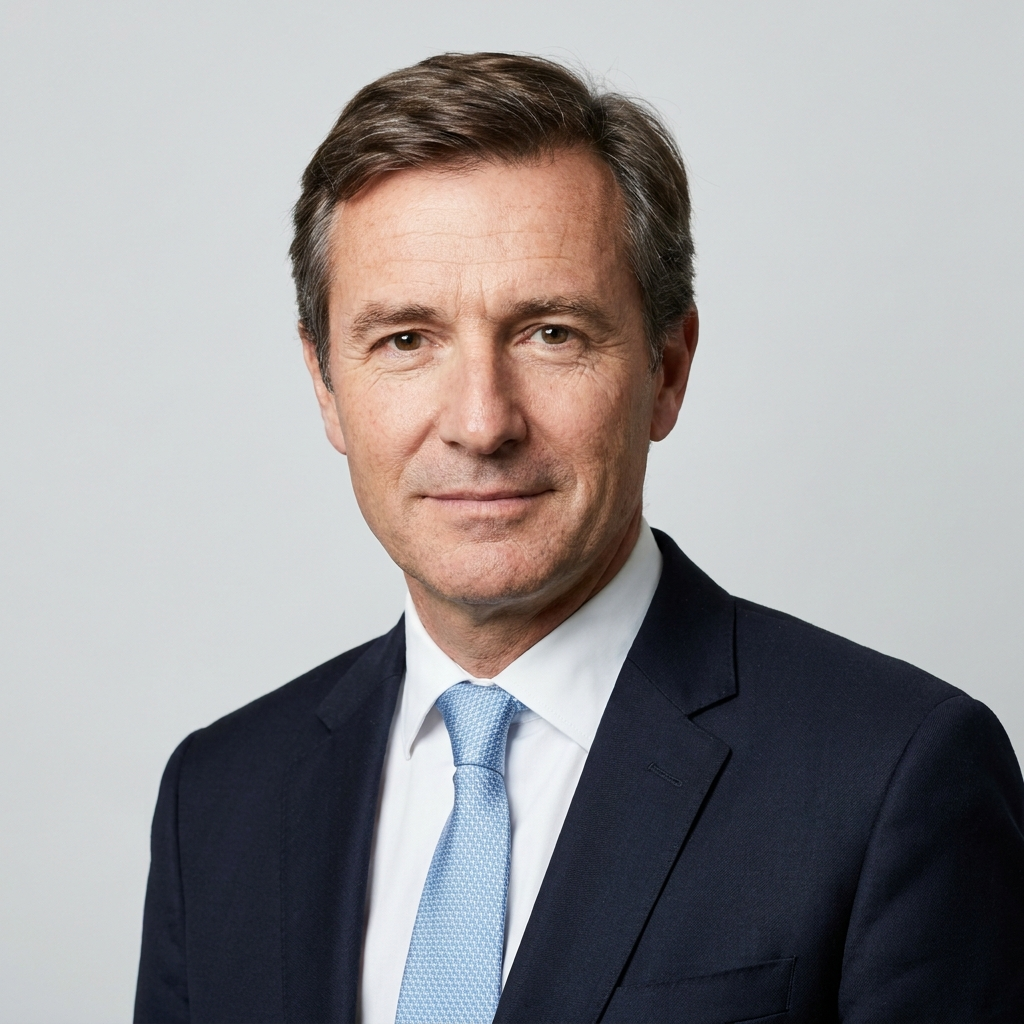
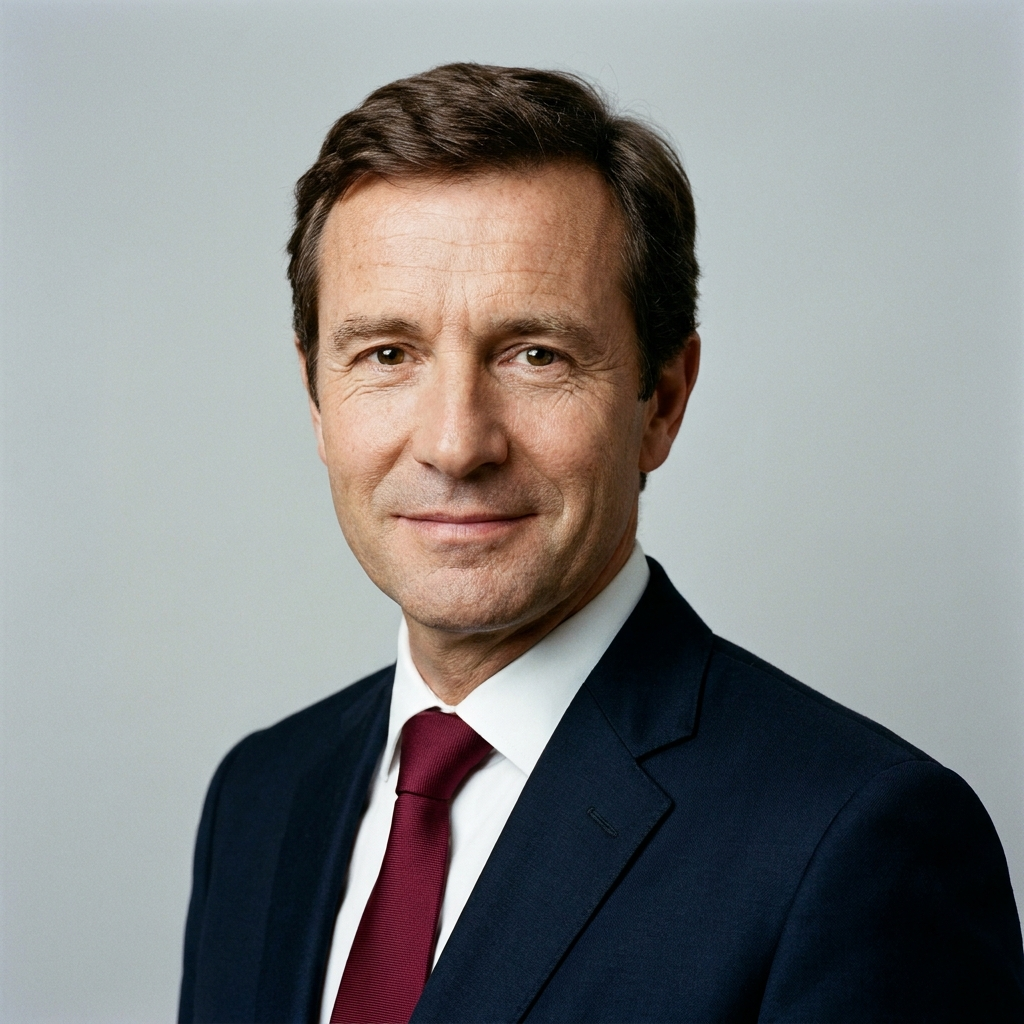
**Victor Grant tie updated** - Victor Grant's portrait now shows him wearing a solid burgundy-red silk tie instead of the light patterned tie. His face and the rest of the portrait are unchanged - Checked: regenerated and verified the new portrait. Preview only — press Deploy to ship it - Credential
Emergent-Commit-Key: aa0c2b3f24e164d3d857576c4ed2a6352aad5883424a72afc91f7e79e226bc43

diff --git a/frontend/src/pages/platform/Leadership.tsx b/frontend/src/pages/platform/Leadership.tsx
@@ -11,12 +11,12 @@ import nicolasImg from "@/assets/leaders/nicolas-bertrand.png";
 import salvatoreImg from "@/assets/leaders/salvatore-sberna.png";
 
 const LEADERS = [
-  { name: "Alexandru Stefan Gheban", role: "Co-CEO & CFO & Co-founder", img: alexImg },
-  { name: "Andrea Ferrero", role: "Co-CEO & Co-founder", img: andreaImg },
-  { name: "Edoardo Guerrieri", role: "Member Board Of Directors", img: edoardoImg },
-  { name: "Giorgio Medda", role: "Member Board Of Directors", img: giorgioImg },
-  { name: "Nicolas Bertrand", role: "Chairman & Member Board Of Directors", img: nicolasImg },
-  { name: "Salvatore Sberna", role: "Member Board Of Directors", img: salvatoreImg },
+  { name: "Marcus Cole", role: "Co-CEO & CFO & Co-founder", img: alexImg },
+  { name: "Ethan Blake", role: "Co-CEO & Co-founder", img: andreaImg },
+  { name: "Daniel Brooks", role: "Member Board Of Directors", img: edoardoImg },
+  { name: "Thomas Hale", role: "Member Board Of Directors", img: giorgioImg },
+  { name: "Victor Grant", role: "Chairman & Member Board Of Directors", img: nicolasImg },
+  { name: "James Ellis", role: "Member Board Of Directors", img: salvatoreImg },
 ];
 
 export default function Leadership() {

diff --git a/backend/scripts/gen_leaders.py b/backend/scripts/gen_leaders.py
@@ -20,7 +20,7 @@ PEOPLE = [
     ("andrea-ferrero", "head-and-shoulders studio portrait photograph of a confident 34-year-old Italian man with light brown tousled hair and light stubble, wearing a plain black crew-neck t-shirt, plain light grey studio background, soft professional lighting, realistic skin texture, sharp focus, square composition, no text, no watermark"),
     ("edoardo-guerrieri", "head-and-shoulders studio portrait photograph of a cheerful 38-year-old Italian man with dark hair and a full dark beard, big warm smile, wearing a white open-collar dress shirt, plain light grey studio background, soft professional lighting, realistic skin texture, sharp focus, square composition, no text, no watermark"),
     ("giorgio-medda", "head-and-shoulders studio portrait photograph of a composed 45-year-old Italian businessman with short dark hair, clean shaven, wearing a charcoal suit with white shirt and blue tie, plain light grey studio background, soft professional lighting, realistic skin texture, sharp focus, square composition, no text, no watermark"),
-    ("nicolas-bertrand", "head-and-shoulders studio portrait photograph of a distinguished 52-year-old French businessman with neat brown hair, clean shaven, wearing a dark navy suit with light patterned tie, plain light grey studio background, soft professional lighting, realistic skin texture, sharp focus, square composition, no text, no watermark"),
+    ("nicolas-bertrand", "head-and-shoulders studio portrait photograph of a distinguished 52-year-old French businessman with neat brown hair, clean shaven, wearing a dark navy suit with a solid burgundy-red silk tie, plain light grey studio background, soft professional lighting, realistic skin texture, sharp focus, square composition, no text, no watermark"),
     ("salvatore-sberna", "head-and-shoulders studio portrait photograph of a 36-year-old Italian man with wavy brown hair and a short groomed beard, slight smile, wearing a navy suit with white shirt and light blue tie, plain light grey studio background, soft professional lighting, realistic skin texture, sharp focus, square composition, no text, no watermark"),
 ]
 

diff --git a/memory/PRD.md b/memory/PRD.md
@@ -713,3 +713,11 @@ The legacy case tracker remains at `/dashboard` (MiArea) — untouched.
   Sberna (Member). Each card has a LinkedIn icon link. About us menu Leadership option links to
   /about/leadership. Photo crop adjusted to object-position:top center. Verified by clicking from
   the About us dropdown.
+
+- **Leadership names changed (2026-11-14)**: replaced the six board member names in Leadership.tsx
+  with new English names: Marcus Cole, Ethan Blake, Daniel Brooks, Thomas Hale, Victor Grant,
+  James Ellis. Portraits and roles unchanged.
+
+- **Victor Grant tie change (2026-11-14)**: regenerated nicolas-bertrand.png (Victor Grant) with a
+  solid burgundy-red silk tie instead of the light patterned tie. Face unchanged concept (same
+  portrait subject).
